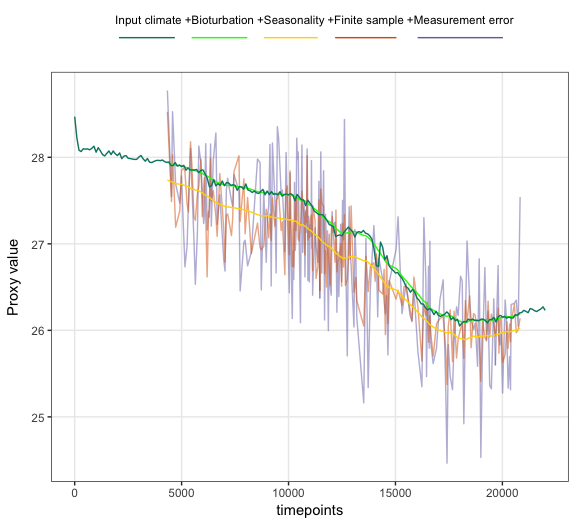
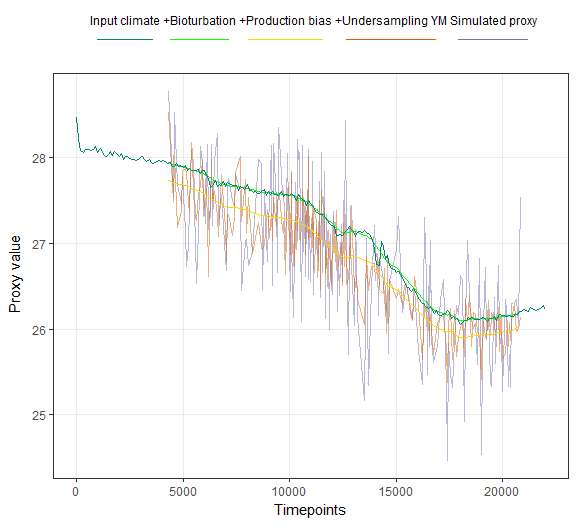
create lookup table for stage names, labels and plotting colours

diff --git a/readme.md b/readme.md
@@ -52,8 +52,9 @@ library(sedproxy)
 
 ```r
 N41.proxy.details %>% 
+  mutate_if(is.numeric, round, digits = 2) %>% 
   gather() %>% 
-  kable(., format = "markdown")
+  kable(., format = "markdown", digits = 2)
 ```
 
 
@@ -65,11 +66,11 @@ N41.proxy.details %>%
 |Core            |MD97-2141                                        |
 |Location        |Sulu Sea                                         |
 |Proxy           |Mg/Ca                                            |
-|Lat             |8.78333                                          |
-|Lon             |121.2833                                         |
+|Lat             |8.78                                             |
+|Lon             |121.28                                           |
 |Elevation       |-3633.000000                                     |
 |Reference       |Rosenthal et al., 2003                           |
-|Resolution      |77.8894472361809                                 |
+|Resolution      |77.89                                            |
 |Calibration.ref |Rosenthal and Lohman, 2002                       |
 |Calibration     |T = ln(MgCa/0.28)/0.095                          |
 |Foram.sp        |G. ruber                                         |
@@ -147,20 +148,21 @@ PFM$everything
 ```
 
 ```
-## # A tibble: 7,565 x 4
-##    timepoints replicate              stage    value
-##         <dbl>     <dbl>              <chr>    <dbl>
-##  1       4334         1 proxy.bt.sb.sampYM 28.52609
-##  2       4527         1 proxy.bt.sb.sampYM 27.48838
-##  3       4576         1 proxy.bt.sb.sampYM 28.02794
-##  4       4721         1 proxy.bt.sb.sampYM 27.19180
-##  5       4914         1 proxy.bt.sb.sampYM 27.38228
-##  6       4994         1 proxy.bt.sb.sampYM 27.85321
-##  7       5092         1 proxy.bt.sb.sampYM 27.87501
-##  8       5156         1 proxy.bt.sb.sampYM 27.83270
-##  9       5254         1 proxy.bt.sb.sampYM 27.46396
-## 10       5318         1 proxy.bt.sb.sampYM 27.36841
-## # ... with 7,555 more rows
+## # A tibble: 9,725 x 9
+##    timepoints replicate             stage    value            label
+##         <dbl>     <dbl>             <chr>    <dbl>            <chr>
+##  1       4334         1 proxy.bt.sb.sampY 27.77735 +Undersampling Y
+##  2       4527         1 proxy.bt.sb.sampY 27.71641 +Undersampling Y
+##  3       4576         1 proxy.bt.sb.sampY 27.74539 +Undersampling Y
+##  4       4721         1 proxy.bt.sb.sampY 27.68920 +Undersampling Y
+##  5       4914         1 proxy.bt.sb.sampY 27.70921 +Undersampling Y
+##  6       4994         1 proxy.bt.sb.sampY 27.66351 +Undersampling Y
+##  7       5092         1 proxy.bt.sb.sampY 27.67081 +Undersampling Y
+##  8       5156         1 proxy.bt.sb.sampY 27.65508 +Undersampling Y
+##  9       5254         1 proxy.bt.sb.sampY 27.65605 +Undersampling Y
+## 10       5318         1 proxy.bt.sb.sampY 27.62041 +Undersampling Y
+## # ... with 9,715 more rows, and 4 more variables: description <chr>,
+## #   plot.order <dbl>, plotting.colour <chr>, plotting.alpha <dbl>
 ```
 
 **Simple plotting**
